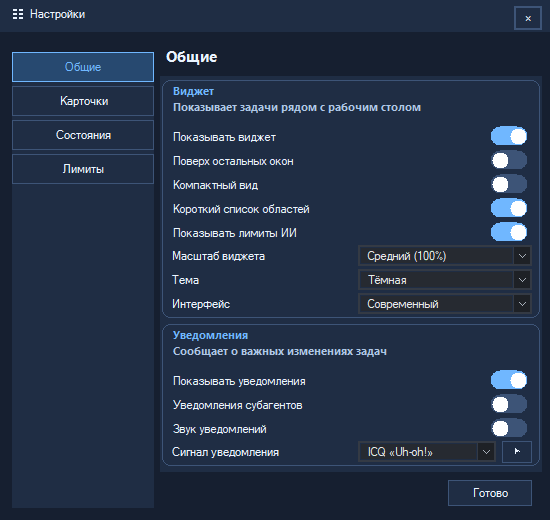
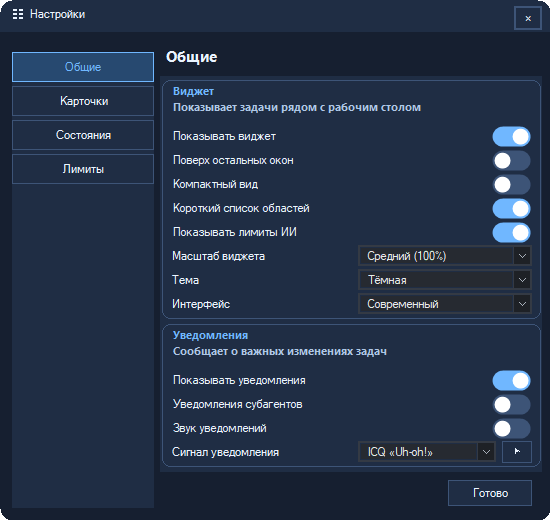
Round modern windows and batch style updates

diff --git a/native/DshNotifyGui.cs b/native/DshNotifyGui.cs
@@ -239,6 +239,8 @@ public sealed class SettingsForm : Form
     private Button previousLimitPage;
     private Button nextLimitPage;
     private Label limitPageCaption;
+    private readonly Dictionary<string, string> limitProviderCatalog = new Dictionary<string, string>();
+    private bool refreshedDuringSave;
 
     public Button SaveButton { get; private set; }
 
@@ -279,7 +281,7 @@ public sealed class SettingsForm : Form
             tabButtons.Add(tab);
         }
         Controls.Add(navPanel);
-        modernPageTitle = new Label { Text = "Общие", Visible = false, Font = new Font("Segoe UI", 11F, FontStyle.Bold), AutoEllipsis = true };
+        modernPageTitle = new Label { Name = "modern-page-title", Text = "Общие", Visible = false, Font = new Font("Segoe UI", 11F, FontStyle.Bold), AutoEllipsis = true };
         Controls.Add(modernPageTitle);
         int top = 72;
         page = 0;
@@ -339,6 +341,7 @@ public sealed class SettingsForm : Form
             string label = Convert.ToString(provider.ContainsKey("label") ? provider["label"] : id);
             Add("limit-" + id, label, !value.HiddenLimitProviders.Contains(id), ref top);
         }
+        foreach (KeyValuePair<string, string> provider in ProviderCatalog(providers)) limitProviderCatalog[provider.Key] = provider.Value;
         SaveButton = new Button();
         SaveButton.Text = "Готово";
         SaveButton.SetBounds(296, 290, 84, 26);
@@ -385,6 +388,7 @@ public sealed class SettingsForm : Form
         ApplyOwnPalette(this);
         StyleTabs();
         CaptureScaleBaseline(this);
+        Resize += delegate { ModernTheme.ApplyWindowRegion(this); };
         ApplyWindowScale();
         ApplyInterfaceStyleRebuild();
     }
@@ -422,9 +426,11 @@ public sealed class SettingsForm : Form
 
     public void UpdateLimitProviders(List<Dictionary<string, object>> providers)
     {
+        Dictionary<string, string> catalog = ProviderCatalog(providers);
+        if (CatalogEquals(limitProviderCatalog, catalog)) return;
         int previousPage = page;
         page = 3;
-        HashSet<string> wanted = new HashSet<string>((providers ?? new List<Dictionary<string, object>>()).Select(provider => Convert.ToString(provider.ContainsKey("id") ? provider["id"] : "")).Where(id => !String.IsNullOrEmpty(id)));
+        HashSet<string> wanted = new HashSet<string>(catalog.Keys);
         foreach (string key in checks.Keys.Where(key => key.StartsWith("limit-", StringComparison.Ordinal) && !wanted.Contains(key.Substring(6))).ToList())
         {
             Control control = checks[key]; contentPanel.Controls.Remove(control); pages.Remove(control); checks.Remove(key);
@@ -433,19 +439,43 @@ public sealed class SettingsForm : Form
         float factor = WindowScaleFactor();
         int top = pages.Where(item => item.Value == 3).Select(item => scaleBounds.ContainsKey(item.Key)
             ? scaleBounds[item.Key].Bottom + 2 : (int)Math.Round(item.Key.Bottom / factor) + 2).DefaultIfEmpty(8).Max();
-        foreach (Dictionary<string, object> provider in providers ?? new List<Dictionary<string, object>>())
+        foreach (KeyValuePair<string, string> provider in catalog)
         {
-            string id = Convert.ToString(provider.ContainsKey("id") ? provider["id"] : "");
-            if (String.IsNullOrEmpty(id)) continue;
-            string label = Convert.ToString(provider.ContainsKey("label") ? provider["label"] : id);
+            string id = provider.Key;
+            string label = provider.Value;
             CheckBox existing; if (checks.TryGetValue("limit-" + id, out existing)) { existing.Text = label; continue; }
             Add("limit-" + id, label, !value.HiddenLimitProviders.Contains(id), ref top);
             CaptureScaleBaseline(checks["limit-" + id]);
         }
         page = previousPage;
+        limitProviderCatalog.Clear();
+        foreach (KeyValuePair<string, string> provider in catalog) limitProviderCatalog[provider.Key] = provider.Value;
         FitRows();
         ShowPage(previousPage);
         ApplyWindowScale();
+    }
+
+    private static Dictionary<string, string> ProviderCatalog(List<Dictionary<string, object>> providers)
+    {
+        Dictionary<string, string> result = new Dictionary<string, string>();
+        foreach (Dictionary<string, object> provider in providers ?? new List<Dictionary<string, object>>())
+        {
+            string id = Convert.ToString(provider.ContainsKey("id") ? provider["id"] : "");
+            if (String.IsNullOrEmpty(id) || result.ContainsKey(id)) continue;
+            result.Add(id, Convert.ToString(provider.ContainsKey("label") ? provider["label"] : id));
+        }
+        return result;
+    }
+
+    private static bool CatalogEquals(Dictionary<string, string> left, Dictionary<string, string> right)
+    {
+        if (left.Count != right.Count) return false;
+        foreach (KeyValuePair<string, string> item in left)
+        {
+            string label;
+            if (!right.TryGetValue(item.Key, out label) || label != item.Value) return false;
+        }
+        return true;
     }
 
     public void RefreshTheme()
@@ -456,6 +486,7 @@ public sealed class SettingsForm : Form
         checks["show-limits"].Checked = value.ShowLimits;
         checks["compact-widget"].Checked = value.CompactWidget;
         syncing = false;
+        refreshedDuringSave = true;
         ApplyInterfaceStyleRebuild();
         ApplyWindowScale();
     }
@@ -467,7 +498,7 @@ public sealed class SettingsForm : Form
         Label label = control as Label;
         if (label != null)
         {
-            label.BackColor = ModernTheme.Enabled ? ModernTheme.Card : Graphite.Card;
+            label.BackColor = ModernTheme.Enabled && label.Name == "modern-page-title" ? ModernTheme.Surface : (ModernTheme.Enabled ? ModernTheme.Card : Graphite.Card);
             label.ForeColor = label.Name == "settings-section" ? (ModernTheme.Enabled ? ModernTheme.Accent : Graphite.Accent("running")) : (ModernTheme.Enabled ? ModernTheme.TextPrimary : Graphite.Primary);
         }
         Button button = control as Button;
@@ -736,6 +767,7 @@ public sealed class SettingsForm : Form
     private void Save()
     {
         if (syncing) return;
+        refreshedDuringSave = false;
         bool wasCompactWorkspaceList = value.CompactWorkspaceList;
         value.ShowWidget = checks["show-widget"].Checked;
         value.ShowNotifications = checks["show-notices"].Checked;
@@ -777,8 +809,11 @@ public sealed class SettingsForm : Form
         value.StatusUnknown = checks["status-unknown"].Checked;
         value.StatusDisposed = checks["status-disposed"].Checked;
         changed(value);
-        ApplyInterfaceStyleRebuild();
-        ApplyWindowScale();
+        if (!refreshedDuringSave)
+        {
+            ApplyInterfaceStyleRebuild();
+            ApplyWindowScale();
+        }
     }
 
     public void ApplyInterfaceStyleRebuild()
@@ -829,6 +864,7 @@ public sealed class SettingsForm : Form
         }
         contentPanel.Invalidate();
         if (!fittingContent) FitToVisibleContent();
+        ModernTheme.ApplyWindowRegion(this);
     }
 
     private void PaintModernCards(object sender, PaintEventArgs args)
@@ -902,7 +938,8 @@ public sealed class SettingsForm : Form
         }
         Rectangle root = scaleBounds[this];
         MinimumSize = new Size(Math.Max(1, (int)Math.Round(360 * factor)), Math.Max(1, (int)Math.Round(280 * factor)));
-        ClientSize = new Size(Math.Max(1, (int)Math.Round(root.Width * factor)), Math.Max(1, (int)Math.Round(root.Height * factor)));
+        int targetWidth = ModernTheme.Enabled ? (int)Math.Round(550 * factor) : (int)Math.Round(root.Width * factor);
+        ClientSize = new Size(Math.Max(1, targetWidth), Math.Max(1, (int)Math.Round(root.Height * factor)));
         foreach (KeyValuePair<Control, Rectangle> item in scaleBounds.Where(item => item.Key != this && !item.Key.IsDisposed)
             .OrderBy(item => ControlDepth(item.Key)).ToList())
         {
@@ -1026,6 +1063,12 @@ public sealed class NotificationWindow : Form
             }
         }
         base.WndProc(ref message);
+    }
+
+    protected override void OnResize(EventArgs args)
+    {
+        base.OnResize(args);
+        ModernTheme.ApplyWindowRegion(this);
     }
 }
 
@@ -1383,6 +1426,10 @@ public sealed class DshNotifyGui : Form
 
     [DllImport("user32.dll", EntryPoint = "SendMessageW", ExactSpelling = true)]
     private static extern IntPtr SendMessage(IntPtr window, int message, IntPtr wParam, IntPtr lParam);
+    [DllImport("user32.dll", ExactSpelling = true)]
+    private static extern bool RedrawWindow(IntPtr window, IntPtr update, IntPtr region, uint flags);
+    [DllImport("user32.dll", ExactSpelling = true)]
+    private static extern bool ShowWindow(IntPtr window, int command);
 
     private readonly JavaScriptSerializer json = new JavaScriptSerializer();
     private readonly StreamWriter output;
@@ -1429,6 +1476,9 @@ public sealed class DshNotifyGui : Form
     private DateTime limitsReceivedAt = DateTime.MinValue;
 
     private const int SettingChangeMessage = 0x001A;
+    private const int SetRedrawMessage = 0x000B;
+    private const int HideWindowCommand = 0;
+    private const uint RedrawFrameAndChildren = 0x0400U | 0x0080U | 0x0001U | 0x0004U;
 
     private float WidgetScaleFactor { get { return Settings != null && Settings.WidgetScale == "small" ? .85F : (Settings != null && Settings.WidgetScale == "large" ? 1.25F : 1F); } }
     private static void NormalizeTheme(Settings settings)
@@ -1738,12 +1788,17 @@ public sealed class DshNotifyGui : Form
         compact.WidgetZoom = WidgetScaleFactor;
         limits.WidgetZoom = WidgetScaleFactor;
         resizeGrip.Height = Px(ResizeGripHeight);
-        ApplyEffectiveTheme();
-        lastShowWidget = Settings.ShowWidget;
-        lastShowNotifications = Settings.ShowNotifications;
-        SettingsApplier.ApplyLocation(this, Settings.WidgetX, Settings.WidgetY);
-        SettingsApplier.ApplyLocation(stack, Settings.NoticeX, Settings.NoticeY);
-        Render();
+        Action apply = delegate
+        {
+            ApplyEffectiveTheme();
+            lastShowWidget = Settings.ShowWidget;
+            lastShowNotifications = Settings.ShowNotifications;
+            SettingsApplier.ApplyLocation(this, Settings.WidgetX, Settings.WidgetY);
+            SettingsApplier.ApplyLocation(stack, Settings.NoticeX, Settings.NoticeY);
+            Render();
+        };
+        if (ThemeVisualsChanged()) RunStyleTransition(apply);
+        else apply();
         if (!Settings.ShowWidget)
         {
             Hide();
@@ -1776,10 +1831,10 @@ public sealed class DshNotifyGui : Form
         compact.WidgetZoom = WidgetScaleFactor;
         limits.WidgetZoom = WidgetScaleFactor;
         resizeGrip.Height = Px(ResizeGripHeight);
-        ApplyEffectiveTheme();
+        if (ThemeVisualsChanged()) RunStyleTransition(delegate { ApplyEffectiveTheme(); Render(); });
+        else { ApplyEffectiveTheme(); Render(); }
         lastShowWidget = Settings.ShowWidget;
         lastShowNotifications = Settings.ShowNotifications;
-        Render();
         if (!Settings.ShowWidget)
         {
             Hide();
@@ -1797,6 +1852,43 @@ public sealed class DshNotifyGui : Form
             ShowNotices();
         }
         Send("settings.changed", "settings", Settings);
+    }
+
+    private void RunStyleTransition(Action action)
+    {
+        List<KeyValuePair<Form, IntPtr>> visibleForms = new List<KeyValuePair<Form, IntPtr>>();
+        foreach (Form form in new Form[] { this, stack }.Concat(settingsForms.Cast<Form>()))
+        {
+            if (form != null && !form.IsDisposed && form.IsHandleCreated && !form.InvokeRequired && form.Visible)
+                visibleForms.Add(new KeyValuePair<Form, IntPtr>(form, form.Handle));
+        }
+        try
+        {
+            foreach (KeyValuePair<Form, IntPtr> form in visibleForms) SendMessage(form.Value, SetRedrawMessage, IntPtr.Zero, IntPtr.Zero);
+            action();
+        }
+        finally
+        {
+            foreach (KeyValuePair<Form, IntPtr> form in visibleForms)
+            {
+                if (form.Key.IsDisposed || !form.Key.IsHandleCreated || form.Key.Handle != form.Value) continue;
+                SendMessage(form.Value, SetRedrawMessage, new IntPtr(1), IntPtr.Zero);
+                if (!form.Key.Visible) ShowWindow(form.Value, HideWindowCommand);
+                else RedrawWindow(form.Value, IntPtr.Zero, IntPtr.Zero, RedrawFrameAndChildren);
+            }
+        }
+    }
+
+    private bool ThemeVisualsChanged()
+    {
+        return ModernTheme.Enabled != (Settings.NormalizedInterfaceStyle == "modern")
+            || Graphite.IsDark != EffectiveThemeDark(Settings);
+    }
+
+    protected override void OnResize(EventArgs args)
+    {
+        base.OnResize(args);
+        ModernTheme.ApplyWindowRegion(this);
     }
 
     public void Process(string line)
@@ -1946,6 +2038,8 @@ public sealed class DshNotifyGui : Form
             }
             ((SettingsForm)form).RefreshTheme();
         }
+        ModernTheme.ApplyWindowRegion(this);
+        ModernTheme.ApplyWindowRegion(stack);
         Invalidate(true);
         stack.Invalidate(true);
     }

diff --git a/native/DshNotifyGuiModern.cs b/native/DshNotifyGuiModern.cs
@@ -54,14 +54,32 @@ internal static class ModernTheme
 
     internal static GraphicsPath Rounded(Rectangle bounds, int radius)
     {
+        int maximumRadius = Math.Max(1, Math.Min(bounds.Width, bounds.Height) / 2);
+        radius = Math.Max(1, Math.Min(radius, maximumRadius));
         int diameter = radius * 2;
         GraphicsPath path = new GraphicsPath();
         path.AddArc(bounds.Left, bounds.Top, diameter, diameter, 180, 90);
-        path.AddArc(bounds.Right - diameter - 1, bounds.Top, diameter, diameter, 270, 90);
-        path.AddArc(bounds.Right - diameter - 1, bounds.Bottom - diameter - 1, diameter, diameter, 0, 90);
-        path.AddArc(bounds.Left, bounds.Bottom - diameter - 1, diameter, diameter, 90, 90);
+        path.AddArc(bounds.Right - diameter, bounds.Top, diameter, diameter, 270, 90);
+        path.AddArc(bounds.Right - diameter, bounds.Bottom - diameter, diameter, diameter, 0, 90);
+        path.AddArc(bounds.Left, bounds.Bottom - diameter, diameter, diameter, 90, 90);
         path.CloseFigure();
         return path;
+    }
+
+    internal static void ApplyWindowRegion(Form form)
+    {
+        if (form == null || form.IsDisposed) return;
+        if (!Enabled)
+        {
+            form.Region = null;
+            return;
+        }
+        Rectangle bounds = form.Bounds;
+        Rectangle local = new Rectangle(0, 0, Math.Max(1, bounds.Width), Math.Max(1, bounds.Height));
+        using (GraphicsPath path = Rounded(local, 12))
+        {
+            form.Region = new Region(path);
+        }
     }
 }
 
@@ -83,15 +101,22 @@ internal sealed class ModernToggle : CheckBox
         // which this modern rendering path replaces.
         using (Brush background = new SolidBrush(BackColor))
             args.Graphics.FillRectangle(background, ClientRectangle);
-        Rectangle track = new Rectangle(Math.Max(0, Width - 42), Math.Max(1, (Height - 20) / 2), 38, 20);
-        using (GraphicsPath path = ModernTheme.Rounded(track, 10))
+        int inset = Math.Max(1, Math.Min(2, Height / 4));
+        int trackHeight = Math.Max(2, Math.Min(20, Height - inset * 2));
+        int trackWidth = Math.Max(trackHeight, Math.Min(38, Math.Max(1, Width - inset * 2)));
+        Rectangle track = new Rectangle(Math.Max(0, Width - trackWidth - inset), Math.Max(0, (Height - trackHeight) / 2), trackWidth, trackHeight);
+        GraphicsState state = args.Graphics.Save();
+        args.Graphics.SmoothingMode = SmoothingMode.AntiAlias;
+        using (GraphicsPath path = ModernTheme.Rounded(track, track.Height / 2))
         using (Brush fill = new SolidBrush(Checked ? ModernTheme.Accent : ModernTheme.CardBorder))
         using (Brush thumb = new SolidBrush(Color.White))
         {
             args.Graphics.FillPath(fill, path);
-            int left = Checked ? track.Right - 18 : track.Left + 2;
-            args.Graphics.FillEllipse(thumb, left, track.Top + 2, 16, 16);
+            int thumbDiameter = Math.Max(1, track.Height - inset * 2);
+            int left = Checked ? track.Right - thumbDiameter - inset : track.Left + inset;
+            args.Graphics.FillEllipse(thumb, left, track.Top + inset, thumbDiameter, thumbDiameter);
         }
+        args.Graphics.Restore(state);
         TextRenderer.DrawText(args.Graphics, Text, Font, new Rectangle(0, 0, Math.Max(1, track.Left - 5), Height),
             ModernTheme.TextPrimary, ModernTheme.TextFlags | TextFormatFlags.VerticalCenter);
         if (Focused) ControlPaint.DrawFocusRectangle(args.Graphics, ClientRectangle, ModernTheme.TextPrimary, BackColor);

diff --git a/native/WidgetQuotaKeys.cs b/native/WidgetQuotaKeys.cs
@@ -76,6 +76,8 @@ internal static class WidgetQuotaKeys
             form.MinimizeBox = false;
             form.StartPosition = FormStartPosition.CenterParent;
             form.ClientSize = new System.Drawing.Size(390, ModernTheme.Enabled ? 202 : 178);
+            form.Resize += delegate { ModernTheme.ApplyWindowRegion(form); };
+            ModernTheme.ApplyWindowRegion(form);
             form.BackColor = ModernTheme.Enabled ? ModernTheme.Surface : Graphite.Base;
             form.ForeColor = ModernTheme.Enabled ? ModernTheme.TextPrimary : Graphite.Primary;
             int top = ModernTheme.Enabled ? 38 : 14;

diff --git a/README.md b/README.md
@@ -50,7 +50,7 @@
 
 ### Современный интерфейс
 
-Откройте «Общие → Интерфейс» и выберите «Современный». Настройки, виджет задач и уведомления остаются самостоятельными окнами. Режим «Классика» сохраняет прежнее оформление. Тему и масштаб можно менять в обоих режимах. В современном режиме окна используют собственные заголовки и кнопки закрытия.
+Откройте «Общие → Интерфейс» и выберите «Современный». Настройки, виджет задач и уведомления остаются самостоятельными окнами. Режим «Классика» сохраняет прежнее оформление. Тему и масштаб можно менять в обоих режимах. В современном режиме окна используют собственные заголовки, кнопки закрытия и скруглённые края.
 
 [Настройки в светлой теме](docs/screenshots/fluent-settings-medium-light.png) · [Настройки в тёмной теме](docs/screenshots/fluent-settings-medium-dark.png) · [Виджет](docs/screenshots/fluent-widget-medium-light.png) · [Уведомления](docs/screenshots/fluent-notifications-medium-light.png). На снимках вымышленные данные.
 
